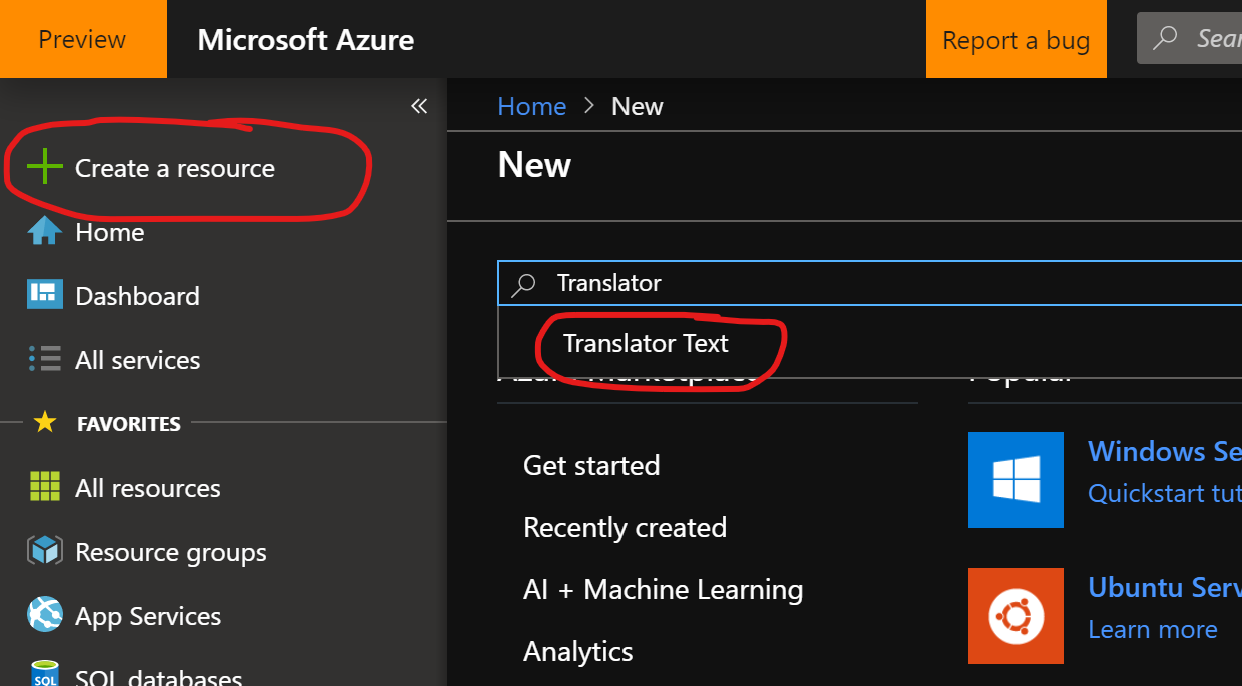
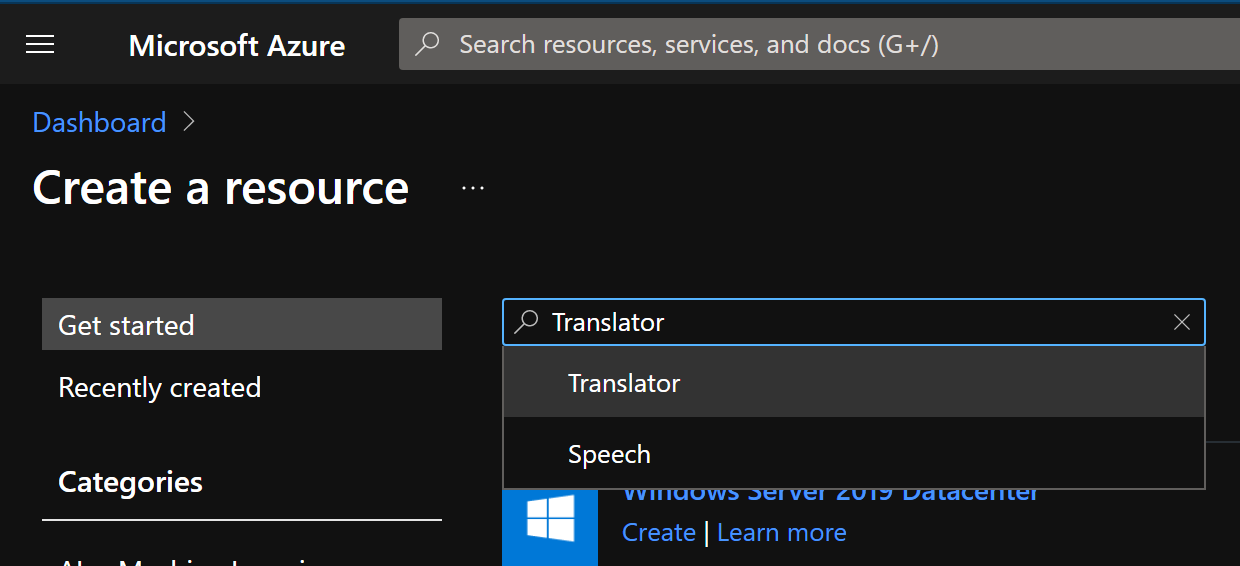
Serverless workshop screenshot updates

diff --git a/serverless/create-cognitive-services-resources.md b/serverless/create-cognitive-services-resources.md
@@ -26,16 +26,20 @@ The Cognitive Services APIs are available in Azure as individual resources. Use 
     | **Name** | TwtrSentiment | Choose a unique account name. |
     | **Location** | South Central US | Use the location nearest you. |
     | **Pricing tier** | F0 | Start with the lowest tier. If you run out of calls, scale to a higher tier.|
-    | **Resource group** | ServerlessWkrshp | Use the same resource group for all services in this tutorial.|
+    | **Resource group** | ServerlessWrkshp | Use the same resource group for all services in this tutorial.|
+
+    >**NOTE:** If you are prompted to select additional features, click the "Skip this step" button
     
+    >**NOTE:** You may receive an error message indicating that "Sub domain name 'YourName' is already used." In this case, choose another name for your Text Analytics resource
+
 1. Click **Create** to create your resource.  
 ![Fill out Text Analytics resource form](media/sentiment-2.png)
-1. From your Resource Group, go to your Sentiment Analysis resource and make note of the **Key1** and **Endpoint** value.
+1. From your Resource Group, go to your Sentiment Analysis resource and make note of the **KEY 1** and **Endpoint** value.
 ![Copy endpoint and key values](media/sentiment-3.png)
 
 ## Create a Microsoft Translator resource
 1. Click **Create a resource** in the upper left-hand corner of the Azure portal.
-1. In the Search field, type in "Translator" and choose "Text Translator"  
+1. In the Search field, type in "Translator" and choose "Translator"  
 ![Search for Text Translator](media/text-translator-1.png)
 1. Click the **Create** button and fill out the resource creation form
 
@@ -44,11 +48,11 @@ The Cognitive Services APIs are available in Azure as individual resources. Use 
     | **Name** | TwtrTranslator | Choose a unique account name. |
     | **Subscription** | Your Subscription | The subscription associated with your account |
     | **Pricing tier** | F0 | Start with the lowest tier. If you run out of calls, scale to a higher tier.|
-    | **Resource group** | ServerlessWkrshp | Use the same resource group for all services in this tutorial.|
+    | **Resource group** | ServerlessWrkshp | Use the same resource group for all services in this tutorial.|
     
 1. Click **Create** to create your resource.  
 ![Fill out Translator resource form](media/text-translator-2.png)
-1. From your Resource Group, go to your Translator resource and make note of the **Key1** value.
+1. From your Resource Group, go to your Translator resource and make note of the **KEY 1** value.
 ![Copy endpoint and key values](media/text-translator-3.png)
 
 
@@ -64,11 +68,11 @@ The Cognitive Services APIs are available in Azure as individual resources. Use 
     | **Subscription** | Your Subscription | The subscription associated with your account |
     | **Location** | South Central US | Use the location nearest you. |
     | **Pricing tier** | S0 | S0 allows for up to 10 calls per second|
-    | **Resource group** | ServerlessWkrshp | Use the same resource group for all services in this tutorial.|
+    | **Resource group** | ServerlessWrkshp | Use the same resource group for all services in this tutorial.|
     
 1. Click **Create** to create your resource.  
 ![Fill out Content Moderator resource form](media/content-moderator-2.png)
-1. From your Resource Group, go to your Content Moderator resource and make note of the **Key1** value.
+1. From your Resource Group, go to your Content Moderator resource and make note of the **KEY 1** value.
 ![Copy endpoint and key values](media/content-moderator-3.png)  
 
 

diff --git a/serverless/create-a-function-app.md b/serverless/create-a-function-app.md
@@ -25,7 +25,8 @@ Functions provides a great way to offload processing tasks in a logic apps workf
     | **OS** | Windows | Choose Windows for .Net code.|
     | **Hosting Plan** | Consumption | Choose consumption to pay for only what you use.|
     | **Location** | South Central US | Use the location nearest you. |
-    | **Runtime Stack** | .Net Core | Choose .Net Core for this tutorial.|
+    | **Runtime Stack** | .NET | Choose .NET for this tutorial.|
+    | **Version** | 3.1 | Choose 3.1 for this tutorial.|
     | **Storage Account** | Create New | Create a new storage account for this function|
 
 1. Click **Create** to create your resource. 
@@ -36,11 +37,11 @@ Functions provides a great way to offload processing tasks in a logic apps workf
 
 ## Create an HTTP triggered function  
 
-1. Expand your function app and click the **+** button next to **Functions**. If this is the first function in your function app, select **In-portal**.
+1. Expand your function app and click the **+** button next to **Functions**. If this is the first function in your function app, select **Develop in portal**.
 
     ![Functions quickstart page in the Azure portal](media/05-function-app-create-portal.png)
 
-1. Next, select **Webhook + API** and click **Create**. 
+1. Next, select **HTTP trigger** and click **Add**. 
 
     ![Choose the HTTP trigger](./media/06-function-webhook.png)
 
@@ -85,7 +86,10 @@ Functions provides a great way to offload processing tasks in a logic apps workf
 
     ![Test the function in the Azure portal](./media/07-function-test.png)
 
-Now you have a function that categorizes sentiment scores. Next, you create a logic app that integrates your function with your Twitter and Cognitive Services API.   
+    ![Test the function in the Azure portal](./media/08-function-test.png)
+
+Now you have a function that categorizes sentiment scores. Next, you create a logic app that integrates your function with your Twitter and Cognitive Services API.
+
 <br>
 
 ### Next: [Create a Logic App](./create-a-logic-app.md) ###

diff --git a/serverless/create-a-logic-app.md b/serverless/create-a-logic-app.md
@@ -1,5 +1,6 @@
 # Create a Logic App
-Azure Logic Apps simplifies how you build automated scalable workflows that integrate apps and data across cloud services and on-premises systems. Learn how to create, design, and deploy logic apps that automate business processes with our quickstarts, tutorials, templates, and APIs.  
+Azure Logic Apps simplifies how you build automated scalable workflows that integrate apps and data across cloud services and on-premises systems. Learn how to create, design, and deploy logic apps that automate business processes with our quickstarts, tutorials, templates, and APIs.
+
 **Documentation: https://docs.microsoft.com/en-us/azure/logic-apps/**
 ### Prerequisite: [Create a Function App](./create-a-function-app.md) ###
 ![Logic App Flow](media/logic-app-flow.png)
@@ -18,9 +19,9 @@ Azure Logic Apps simplifies how you build automated scalable workflows that inte
 
 ## Create the Logic App
 
-1. In the Azure portal, click the **New** button found on the upper left-hand corner of the Azure portal.
+1. In the Azure portal, click the **Create a resource** button found on the upper left-hand corner of the Azure portal.
 
-2. Click **Web** > **Logic App**.
+2. Click **Integration** > **Logic App (Consumption)**
  
 3. Then, type a value for **Name** like `TweetSentiment`, and use the settings as specified in the table.
 
